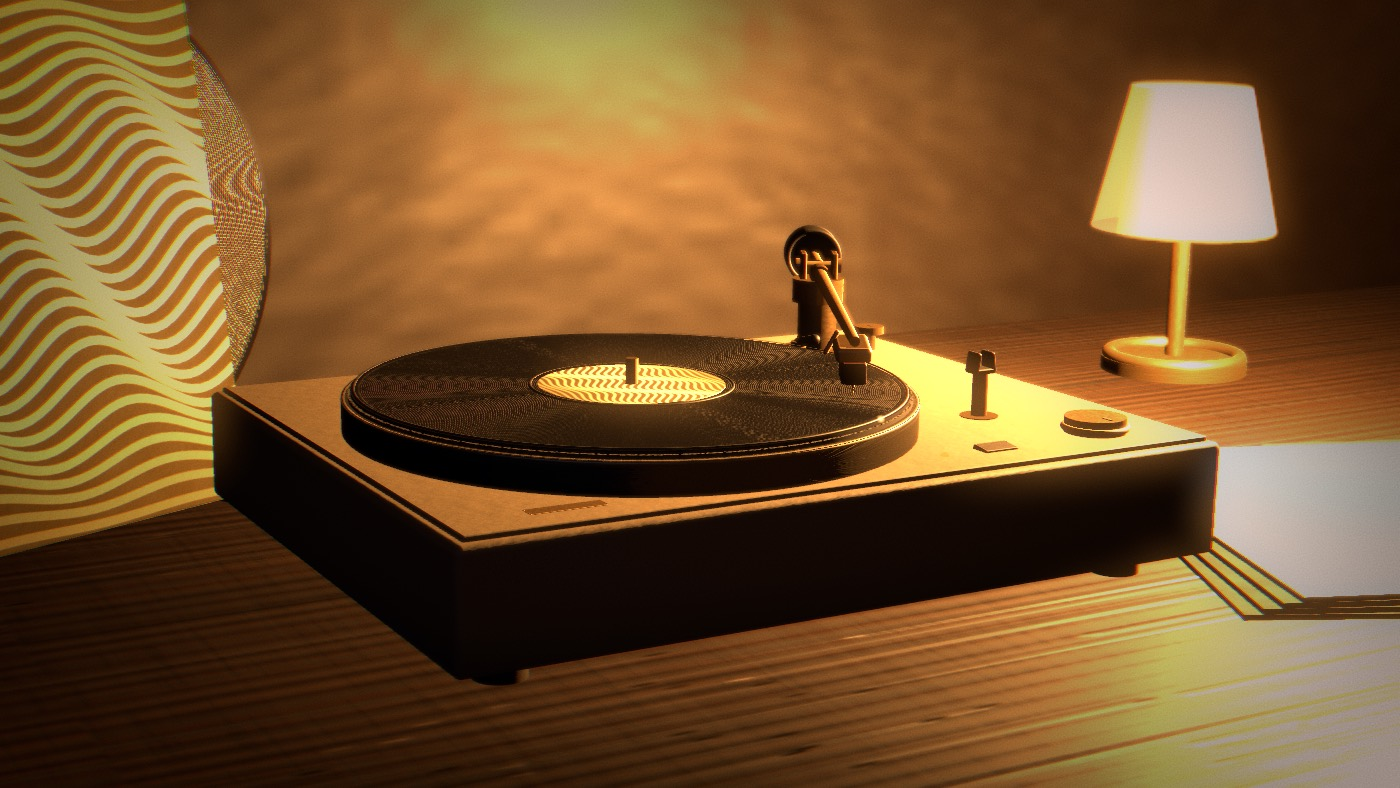
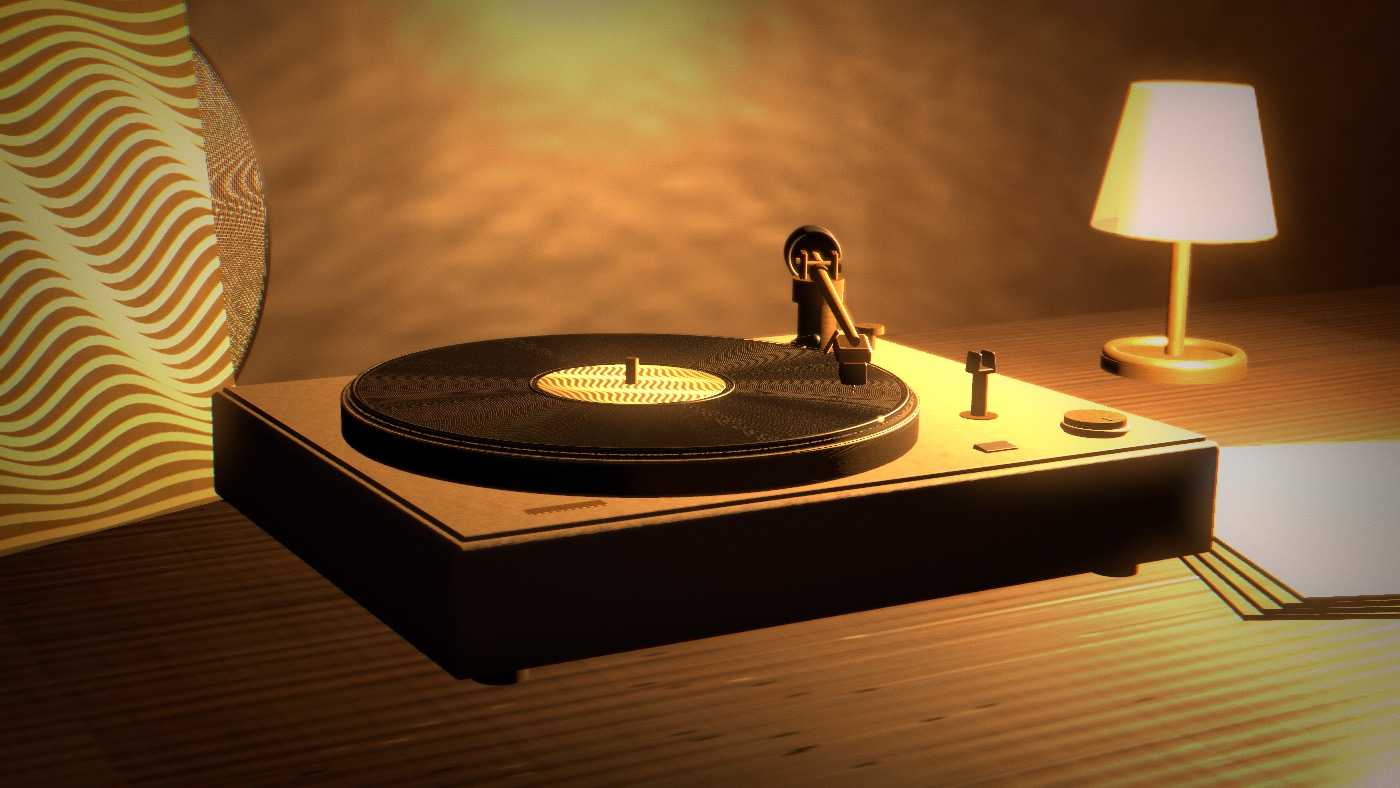
fix(scene): expose Gallery for the highlights and defocus the background
It was lit flat and bright: the fill was strong enough to fill in every
shadow and the wall sat near clipping, so there was no tonal range left for
anything to look photographed.

Exposure comes down about two thirds of a stop, the fill drops to a third of
what it was and turns blue so shadows have a colour instead of being grey,
and the ambient term is almost gone. Contact occlusion is stronger, which is
what grounds an object on a surface.

Background is defocused now. That turned out to need an f-number far below
anything physical: SceneKit's defocus is much weaker than the optics the
value describes, and f/1.7 was indistinguishable from everything in focus.
Checked it at f/0.45 to confirm the effect applies at all before settling on
a usable figure. The field is a blur strength here, not an aperture, and the
preset says so.

Also: the deck sits a couple of degrees off square, because nothing in a
room lines up with the camera; the desk varnish is dulled in patches by
settled dust and hand wear, since evenly polished anything is a giveaway;
and the blind slats got their edges back after the previous pass softened
them into smears.

Claude-Session: https://claude.ai/code/session_016bW7FVut6V3koUbQh7PRZo

Changed region(s): [[0.4914, 0.7614, 1.0, 1.0], [0.7064, 0.3959, 0.7371, 0.4264]]

diff --git a/Sources/Spindle/Scene/ScenePreset.swift b/Sources/Spindle/Scene/ScenePreset.swift
@@ -98,6 +98,9 @@ struct ScenePreset: Identifiable, Hashable, Sendable {
     var deskGrain: RGB
     /// How much varnish is on the desk, 0 bare to 1 mirror.
     var deskGloss: CGFloat = 0.45
+    /// Turn the deck a degree or two off square. Nothing in a real room is
+    /// aligned to the camera, and perfect alignment reads as a diagram.
+    var deckYaw: CGFloat = 0
     var plinth: RGB
     var platter: RGB
     var metal: RGB
@@ -179,35 +182,39 @@ extension ScenePreset {
         cameraPosition: Vec3(0.050, 0.460, 1.620),
         cameraTarget: Vec3(0.000, 0.220, -0.020),
         fieldOfView: 42,
-        fStop: 2.8,
+        // SceneKit's defocus is far weaker than the optics this number
+        // describes: f/1.7 was indistinguishable from everything in focus.
+        // Treat it as a blur strength, not an aperture.
+        fStop: 0.62,
         roll: -0.008,
         key: .init(kind: .spot(angle: 110),
                    position: Vec3(-1.05, 1.08, 0.72),
                    target: Vec3(-0.10, 0.10, -0.34),
                    color: RGB(1.0, 0.968, 0.912),
-                   intensity: 58, shadowRadius: 26, gobo: .blinds),
+                   intensity: 44, shadowRadius: 13, gobo: .blinds),
         fill: .init(kind: .area(width: 1.8, height: 1.2),
                     position: Vec3(0.92, 0.70, 1.05),
                     target: Vec3(0, 0.10, 0),
-                    color: RGB(0.88, 0.91, 1.0),
-                    intensity: 420, castsShadow: false),
+                    color: RGB(0.62, 0.72, 1.0),
+                    intensity: 185, castsShadow: false),
         bounce: .init(kind: .area(width: 1.5, height: 1.0),
                       position: Vec3(0.0, 0.015, 0.45),
                       target: Vec3(0, 0.26, -0.10),
-                      color: RGB(0.58, 0.44, 0.30),
-                      intensity: 150, castsShadow: false),
-        ambient: RGB(0.95, 0.94, 0.92),
-        ambientIntensity: 12,
+                      color: RGB(0.55, 0.40, 0.26),
+                      intensity: 70, castsShadow: false),
+        ambient: RGB(0.78, 0.83, 0.95),
+        ambientIntensity: 3,
         environmentTint: RGB(1.0, 0.980, 0.950),
-        environmentIntensity: 0.34,
-        exposure: -0.18,
-        vignette: 0.30,
-        bloom: 0.09,
+        environmentIntensity: 0.17,
+        exposure: -0.62,
+        vignette: 0.44,
+        bloom: 0.07,
         wallTop: RGB(0.905, 0.893, 0.872),
         wallBottom: RGB(0.848, 0.835, 0.813),
         deskBase: RGB(0.175, 0.108, 0.065),
         deskGrain: RGB(0.285, 0.185, 0.112),
         deskGloss: 0.86,
+        deckYaw: -0.042,
         plinth: RGB(0.470, 0.455, 0.425),
         platter: RGB(0.560, 0.535, 0.485),
         metal: RGB(0.830, 0.795, 0.720),

diff --git a/Sources/Spindle/Scene/Textures.swift b/Sources/Spindle/Scene/Textures.swift
@@ -256,7 +256,17 @@ enum Textures {
             let localV = v * planks - board
             let spacing = 11.0 + n.value(board * 13.0 + 5.0) * 11.0
             let rings = abs(sin((localV * spacing + n.value(board * 37.0) * 20.0) * .pi))
-            let r = 0.38 + rings * 0.20 + n.value(u * 300, v * 7) * 0.06
+            var r = 0.38 + rings * 0.20 + n.value(u * 300, v * 7) * 0.06
+
+            // Settled dust and hand wear. A desk polished evenly across its
+            // whole surface is one of the surest signs of a render: the
+            // varnish should be duller in patches, and duller still where
+            // things get put down.
+            let settled = n.fbm(u * 3.2, v * 3.2, octaves: 4)
+            r += max(0, settled - 0.52) * 0.55
+            let wear = n.fbm(u * 1.1 + 31.0, v * 1.1, octaves: 3)
+            r += max(0, wear - 0.58) * 0.40
+
             return (r, r, r, 1)
         }
     }
@@ -434,7 +444,7 @@ enum Textures {
     /// Slats run at an angle, because a blind is almost never square to the
     /// wall you are looking at, and that diagonal banding is what gives a
     /// plain white room its character.
-    static func blindGobo(slats: Double = 8, tilt: Double = -0.34,
+    static func blindGobo(slats: Double = 9, tilt: Double = -0.34,
                           size: Int = 512) -> CGImage {
         image(width: size, height: size) { u, v in
             // Rotate the sampling axis, then band along it.
@@ -448,7 +458,9 @@ enum Textures {
             // Wide, soft transitions. Narrow slats with hard edges give you
             // stage lighting; a bedroom near a window gets broad bands that
             // fade into each other.
-            let lit: Double = smooth(distance, openness - 0.17, openness + 0.15)
+            // Soft edged, but still edges. Widen this much further and the
+            // bands stop being light through a blind and become a smear.
+            let lit: Double = smooth(distance, openness - 0.09, openness + 0.08)
 
             // Fall off at the edge of the cone so the light does not stop on
             // a hard circle.

diff --git a/Sources/Spindle/Scene/TurntableScene.swift b/Sources/Spindle/Scene/TurntableScene.swift
@@ -161,6 +161,7 @@ final class TurntableScene {
         addRoom()
 
         deck = Deck(preset: preset, artwork: artwork, pressing: pressing)
+        deck.node.eulerAngles = SCNVector3(0, preset.deckYaw, 0)
         world.addChildNode(deck.node)
 
         addDressing()
@@ -205,7 +206,7 @@ final class TurntableScene {
         camera.grainIsColored = false
 
         // Contact shadows, without which nothing sits on the desk.
-        camera.screenSpaceAmbientOcclusionIntensity = 1.4
+        camera.screenSpaceAmbientOcclusionIntensity = 1.9
         camera.screenSpaceAmbientOcclusionRadius = 0.09
         camera.screenSpaceAmbientOcclusionBias = 0.012
 
